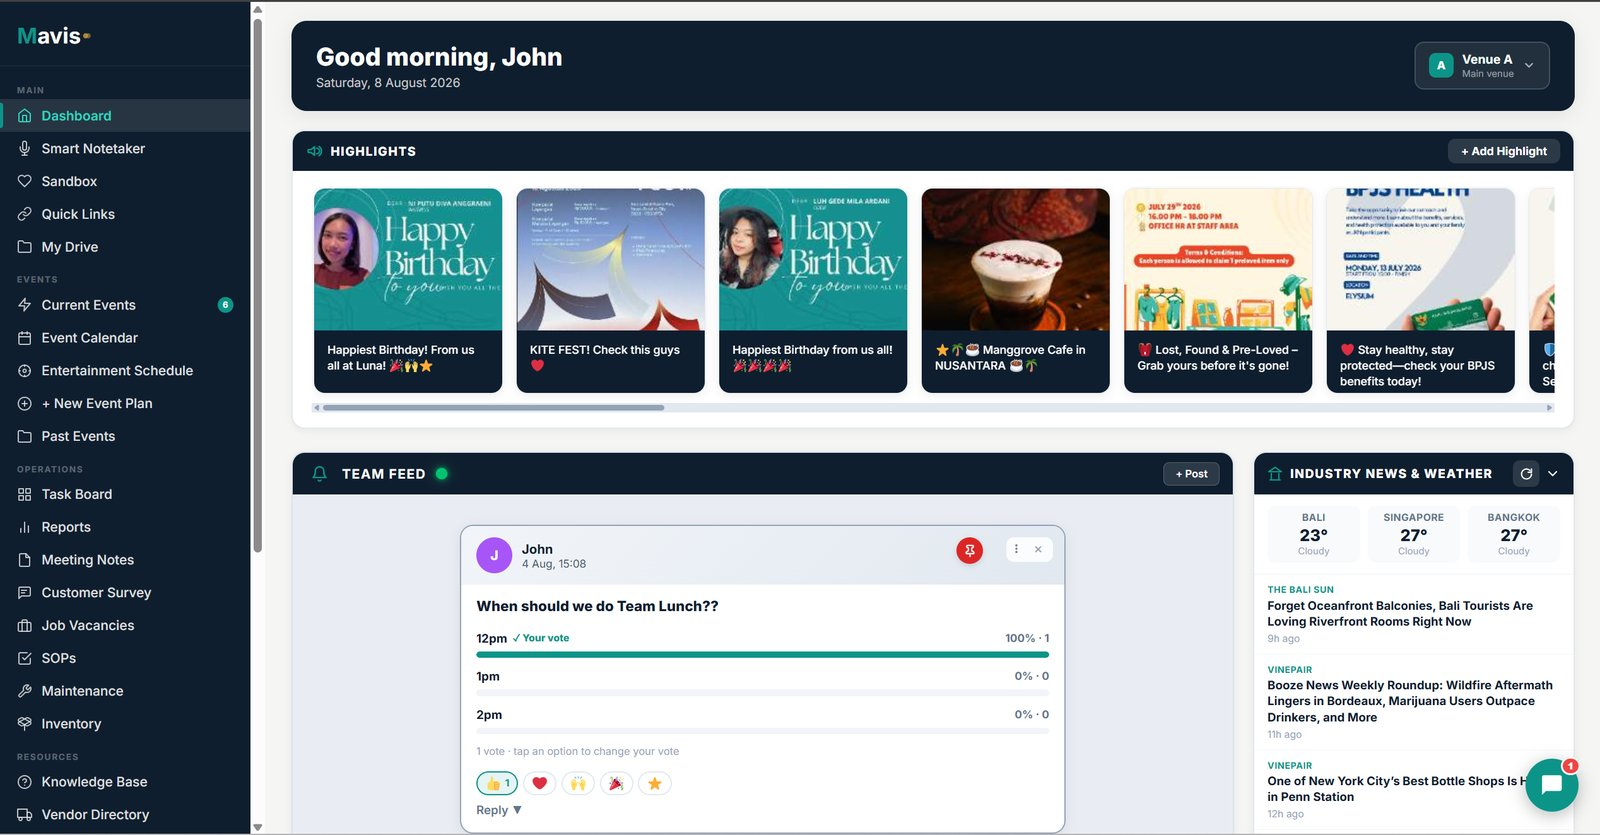
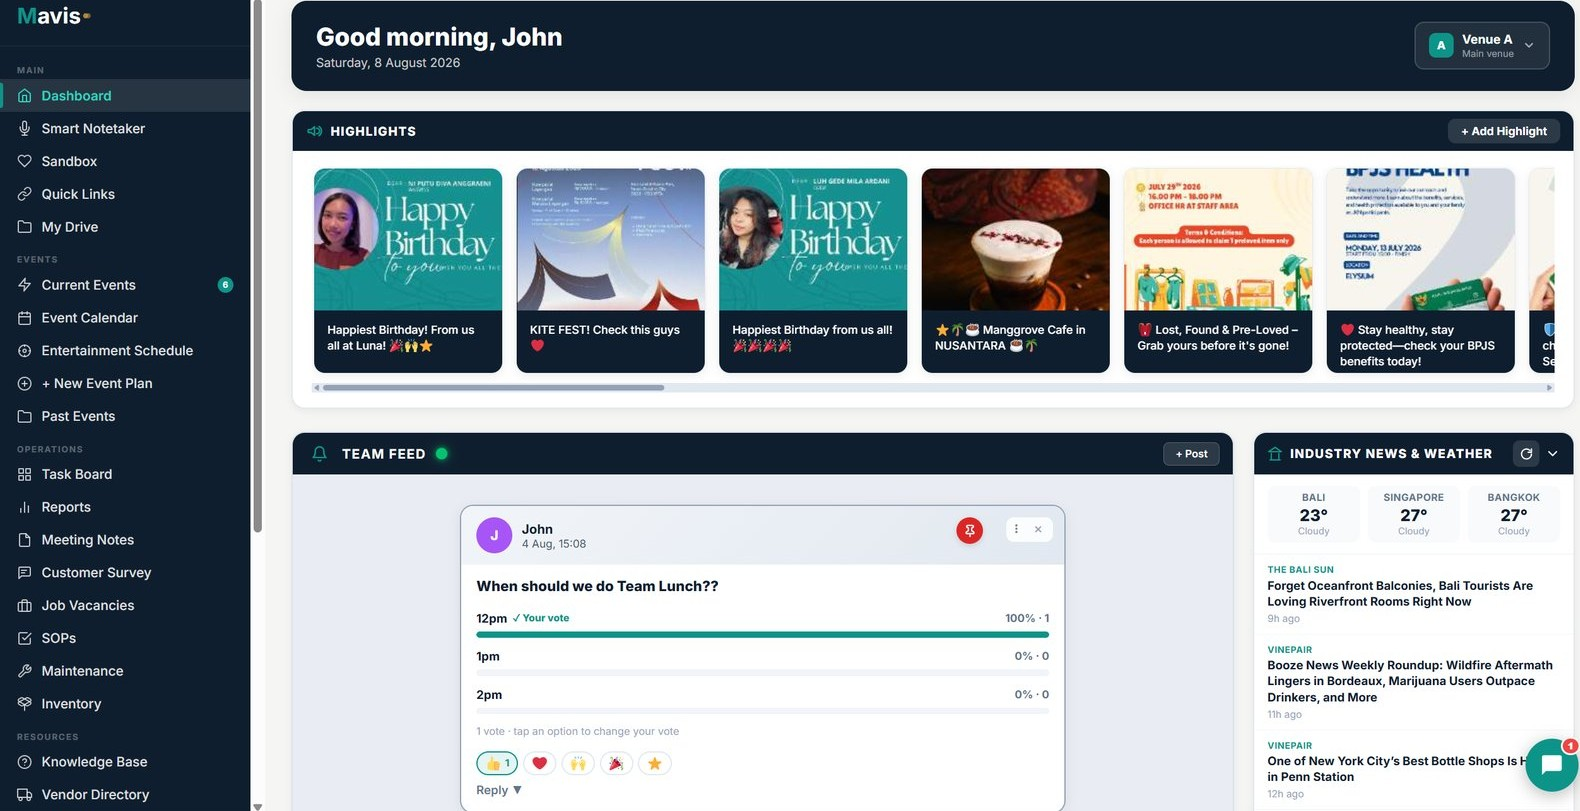
Fix per feedback: (1) found the messy border was actually baked into the screenshot image itself (leftover margin/artifact from the original capture) - cropped the source image cleanly to the real app content and replaced it with a proper thin, consistent CSS border all the way around, (2) repositio

Changed region(s): [[0.0, 0.0, 1.0, 1.0], [0.0, 0.8631, 0.1861, 1.0], [0.0, 0.0, 0.062, 0.0617]]

diff --git a/index.html b/index.html
@@ -131,7 +131,7 @@ img{max-width:100%;display:block}
 /* ===== ANNOTATED EXAMPLE — numbered callout badges ===== */
 .annotated{padding:20px 0 100px}
 .annotated-outer{position:relative;max-width:1100px;margin:0 auto}
-.annotated-frame{background:var(--navy);border-radius:10px;overflow:hidden;box-shadow:0 20px 50px -20px rgba(15,30,46,0.3)}
+.annotated-frame{background:var(--navy);border-radius:10px;overflow:hidden;box-shadow:0 20px 50px -20px rgba(15,30,46,0.3);border:1px solid rgba(255,255,255,0.08)}
 .annotated-view{position:relative;background:#DDD8CC;overflow:hidden}
 .annotated-view img{width:100%;display:block}
 .ann-badge{position:absolute;width:30px;height:30px;border-radius:50%;color:white;display:flex;align-items:center;justify-content:center;font-weight:800;font-size:14px;font-family:'Inter',sans-serif;transform:translate(-50%,-50%);background:var(--teal);animation:annGlow 1s ease-in-out infinite}
@@ -173,9 +173,9 @@ img{max-width:100%;display:block}
       <div class="dscreen-bar"><span class="dscreen-dot"></span><span class="dscreen-dot"></span><span class="dscreen-dot"></span></div>
       <div class="annotated-view">
         <img src="images/peek-dashboard.jpg" alt="Mavis dashboard annotated">
-        <div class="ann-badge" style="top:7%;left:78%">1</div>
-        <div class="ann-badge" style="top:17%;left:45%">2</div>
-        <div class="ann-badge" style="top:53%;left:45%">3</div>
+        <div class="ann-badge" style="top:5%;left:89%">1</div>
+        <div class="ann-badge" style="top:13%;left:27%">2</div>
+        <div class="ann-badge" style="top:50%;left:24%">3</div>
       </div>
       <div class="dscreen-caption">Dashboard — annotated example</div>
     </div>
